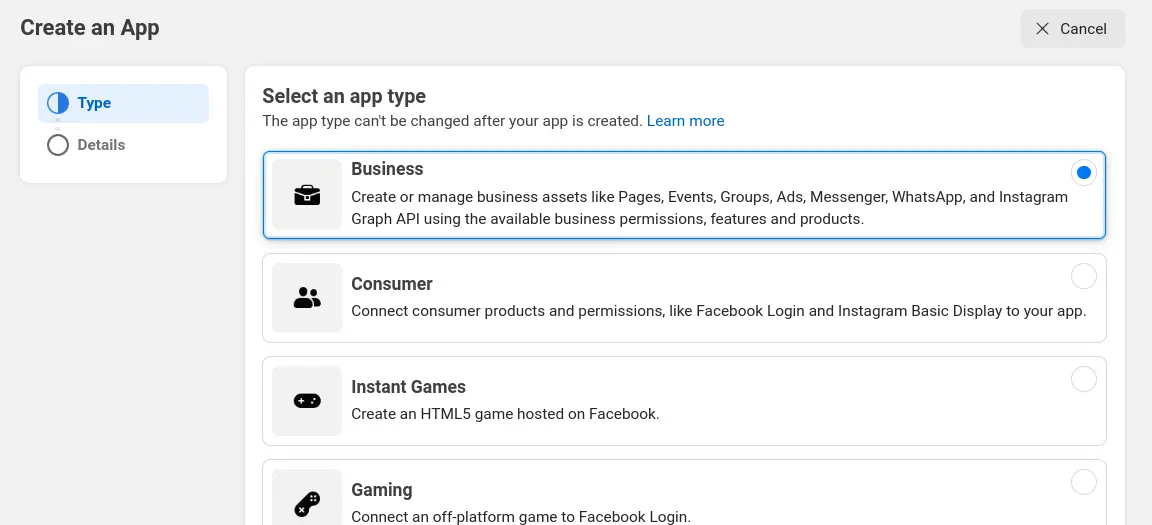
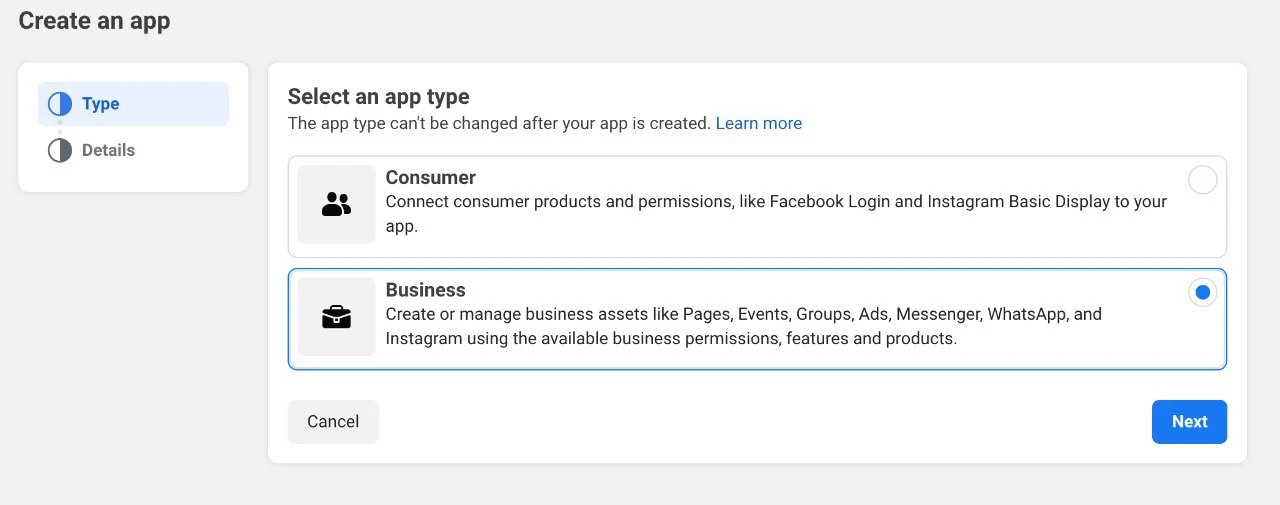
[docs] update get-started steps

diff --git a/docs/source/content/getting-started.rst b/docs/source/content/getting-started.rst
@@ -44,20 +44,10 @@ In order to use the WhatsApp Cloud API, you need to create a Facebook App.
 To do that you need a Facebook Developer account. If you don't have one, `you can register here <https://developers.facebook.com/>`_.
 
 1. Go to `Meta for Developers > My Apps <https://developers.facebook.com/apps/>`_ and create a new app
-    - Click `here <https://developers.facebook.com/apps/creation/>`_ to go directly to the app creation page
+    - Click `here <https://developers.facebook.com/apps/create/?show_additional_prod_app_info=false>`_ to go directly to the app creation page
 
-2. Select **Other** as the use case and hit **Next**
 
-.. toggle::
-
-    .. image:: ../../_static/guides/create-new-app.webp
-       :width: 600
-       :alt: Create a new app
-       :align: center
-
---------------------
-
-3. Select **Business** as the app type and click on **Next**
+2. Select **Business** as the app type and click on **Next**
 
 .. toggle::
 
@@ -192,6 +182,8 @@ Now you can continue to the next section and learn how to use the ``pywa`` packa
 - The `WhatsApp <client/overview.html>`_ Client: is the core of the package. It is used to send and receive messages and media, register callbacks, manage profile and business settings and more.
 
 - The `Handlers <handlers/overview.html>`_: Learn how to register callbacks and handle incoming updates (messages, callbacks and more).
+
+- The `Listeners <listeners/overview.html>`_: Learn how to listen to incoming user updates.
 
 - The `Filters <filters/overview.html>`_: Learn how to handle specific updates by applying filters and conditions (for example, handle only text messages that contains the word "Hello").
 
